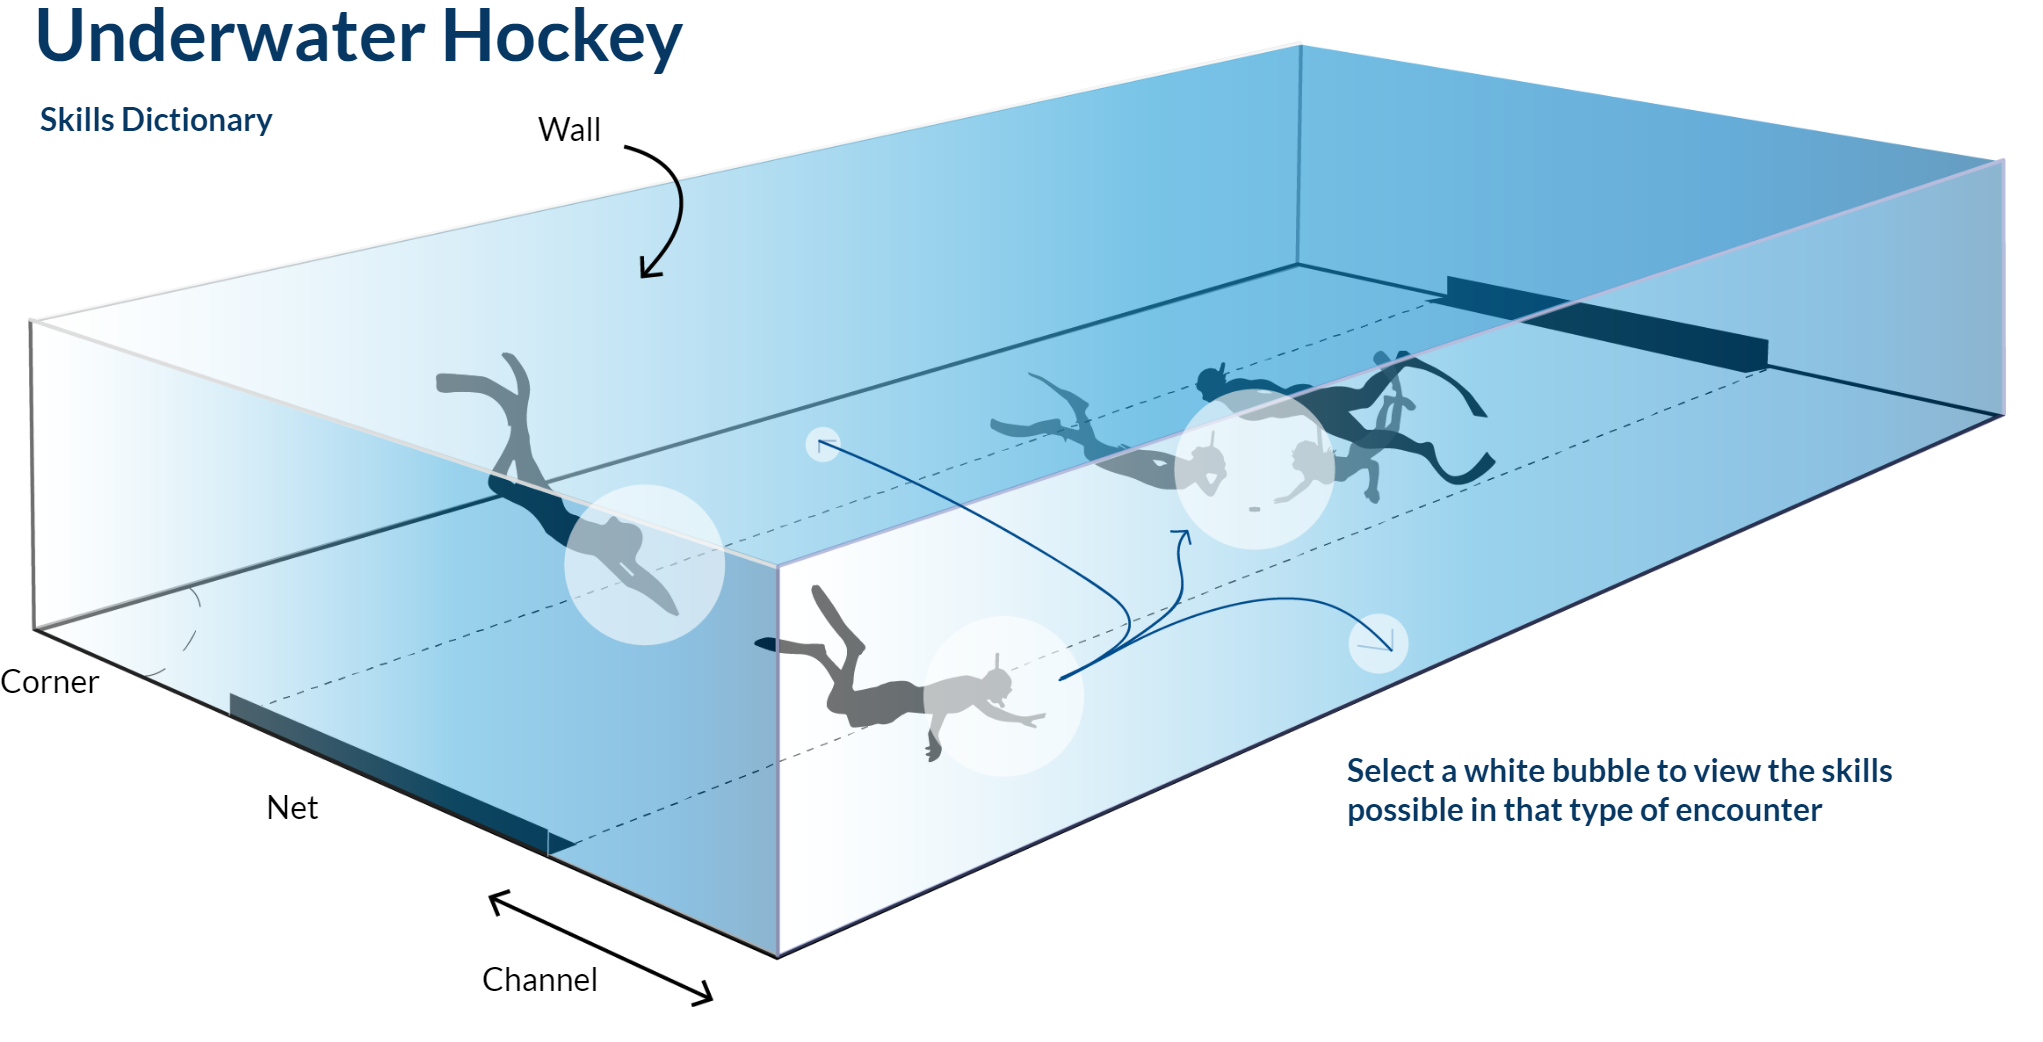
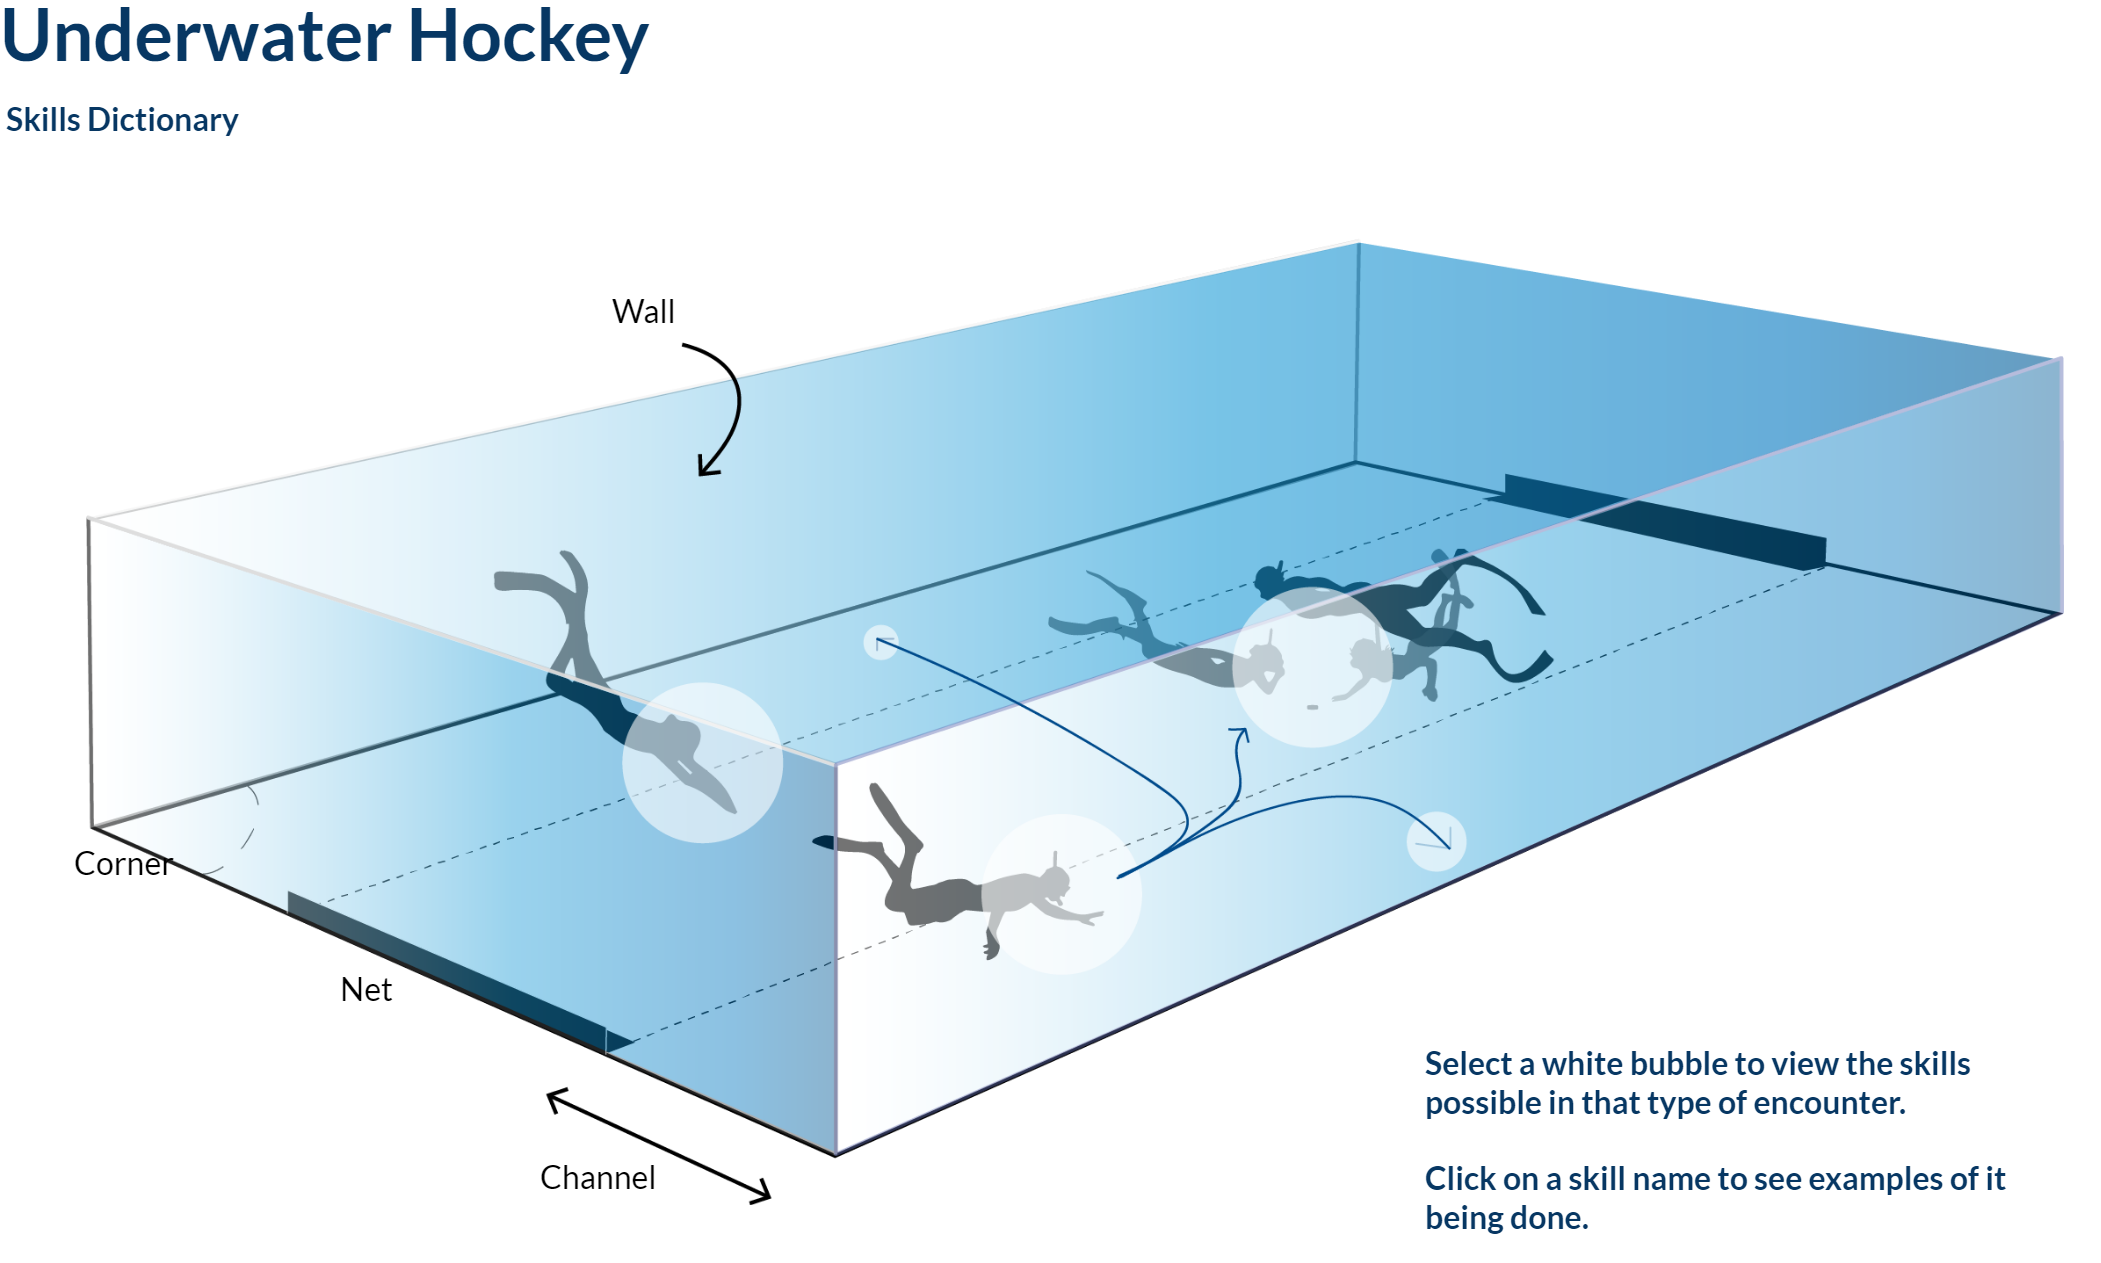
rm border, add getting into position gfx

diff --git a/public/js/phase.js b/public/js/phase.js
@@ -6,13 +6,13 @@
 this.PhaseInfo = {}
 
 PhaseInfo.Phase_Options = [
-    {id: 1, display_name: "Wall_Left", name: "Wall_Left", x: 39.25, y: 40.75, width: 2, height: 4, el: null, super_phases: []},
-    {id: 2, display_name: "Puck_Collection", name: "Puck_Collection", x: 57.5, y: 37, width: 8, height: 16, el: null, super_phases: [3, 4]},
+    {id: 1, display_name: "Wall_Left", name: "Wall_Left", x: 41, y: 49, width: 2, height: 3, el: null, super_phases: []},
+    {id: 2, display_name: "Puck_Collection", name: "Puck_Collection", x: 58.5, y: 46.7, width: 8, height: 13.3, el: null, super_phases: [3, 4]},
     {id: 2, display_name: "Puck_Collection", name: "Puck_Collection", x: 3.5, y: 2, width: 0, height: 0, el: null, super_phases: [3, 4]},
     {id: 3, display_name: "Claim_Empty_Space", name: "Puck_Distribution", x: 3.5, y: 5, width: 0, height: 0, el: null, super_phases: [2, 4]},
     {id: 4, display_name: "Eliminate_Opposing_Player", name: "Formation_Displacement", x: 3.5, y: 9, width: 0, height: 0, el: null, super_phases: [2, 3]},
-    {id: 5, display_name: "Getting_Into_Position", name: "Getting_Into_Position", x: 27.5, y: 46, width: 8, height: 16, el: null, super_phases: []},
-    {id: 6, display_name: "Wall_Right", name: "Wall_Right", x: 66, y: 59, width: 3, height: 6, el: null, super_phases: []}
+    {id: 5, display_name: "Getting_Into_Position", name: "Getting_Into_Position", x: 29.5, y: 54, width: 8, height: 13, el: null, super_phases: []},
+    {id: 6, display_name: "Wall_Right", name: "Wall_Right", x: 67, y: 63.7, width: 3, height: 5, el: null, super_phases: []}
 ];
 
 PhaseInfo.Phase_Keys = [
@@ -94,15 +94,15 @@ PhaseInfo.Phase_Keys = [
     {
         phase: 5,
         keys: [
-            {id: 27, decision: "get_down", card: "", name: "s_dive", x:17.5, y:19.5, width: 16, height: 3.7, el: null},
-            {id: 28, decision: "get_down", card: "", name: "duck_dive", x:17.5, y:24, width: 16, height: 3, el: null},
-            {id: 29, decision: "choose_body_position", card: "behind_puck", name: "cobra", x:78.5, y:15.5, width: 16, height: 3, el: null},
-            {id: 30, decision: "choose_body_position", card: "behind_puck", name: "icicle", x:78.5, y:20, width: 16, height: 3.5, el: null},
-            {id: 31, decision: "choose_body_position", card: "behind_puck", name: "upside_down", x:78.5, y:24, width: 16, height: 3, el: null},
-            {id: 32, decision: "choose_body_position", card: "ahead_of_puck", name: "backward_cobra", x:78.5, y:37, width: 16, height: 3, el: null},
-            {id: 33, decision: "choose_body_position", card: "ahead_of_puck", name: "retrospective_cobra", x:78.5, y:41, width: 18, height: 3, el: null},
-            {id: 34, decision: "choose_body_position", card: "ahead_of_puck", name: "turkish_fence", x:78.5, y:45, width: 16.5, height: 3, el: null},
-            {id: 35, decision: "choose_body_position", card: "ahead_of_puck", name: "turtle", x:78.5, y:49, width: 16.5, height: 3.2, el: null}
+            {id: 27, decision: "get_down", card: "", name: "s_dive", x:49.5, y:13, width: 16, height: 3.7, el: null},
+            {id: 28, decision: "get_down", card: "", name: "duck_dive", x:49.5, y:17, width: 16, height: 3.7, el: null},
+            {id: 29, decision: "choose_body_position", card: "behind_puck", name: "cobra", x:6, y:29.5, width: 16, height: 3.7, el: null},
+            {id: 30, decision: "choose_body_position", card: "behind_puck", name: "icicle", x:6, y:33.8, width: 16, height: 3.7, el: null},
+            {id: 31, decision: "choose_body_position", card: "behind_puck", name: "upside_down", x:6, y:37.2, width: 16, height: 3.7, el: null},
+            {id: 32, decision: "choose_body_position", card: "ahead_of_puck", name: "backward_cobra", x:6, y:50.5, width: 16, height: 3.7, el: null},
+            {id: 33, decision: "choose_body_position", card: "ahead_of_puck", name: "retrospective_cobra", x:6, y:54.5, width: 16, height: 3.7, el: null},
+            {id: 34, decision: "choose_body_position", card: "ahead_of_puck", name: "turkish_fence", x:6, y:59, width: 16, height: 3.7, el: null},
+            {id: 35, decision: "choose_body_position", card: "ahead_of_puck", name: "turtle", x:6, y:63, width: 16, height: 3.7, el: null}
         ]
     },
     {

diff --git a/public/css/style.css b/public/css/style.css
@@ -18,7 +18,6 @@
 }
 
 .image-border {
-    border: black solid 2px;
     padding: 10px;
 }
 
